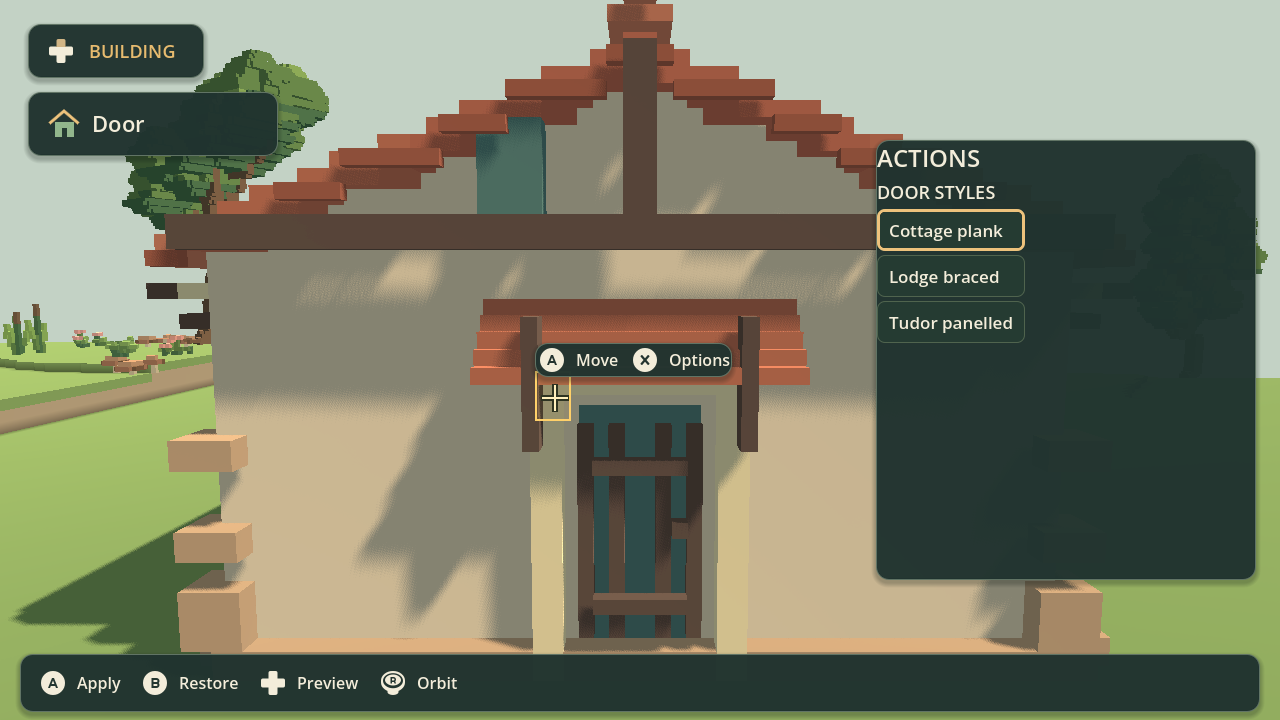
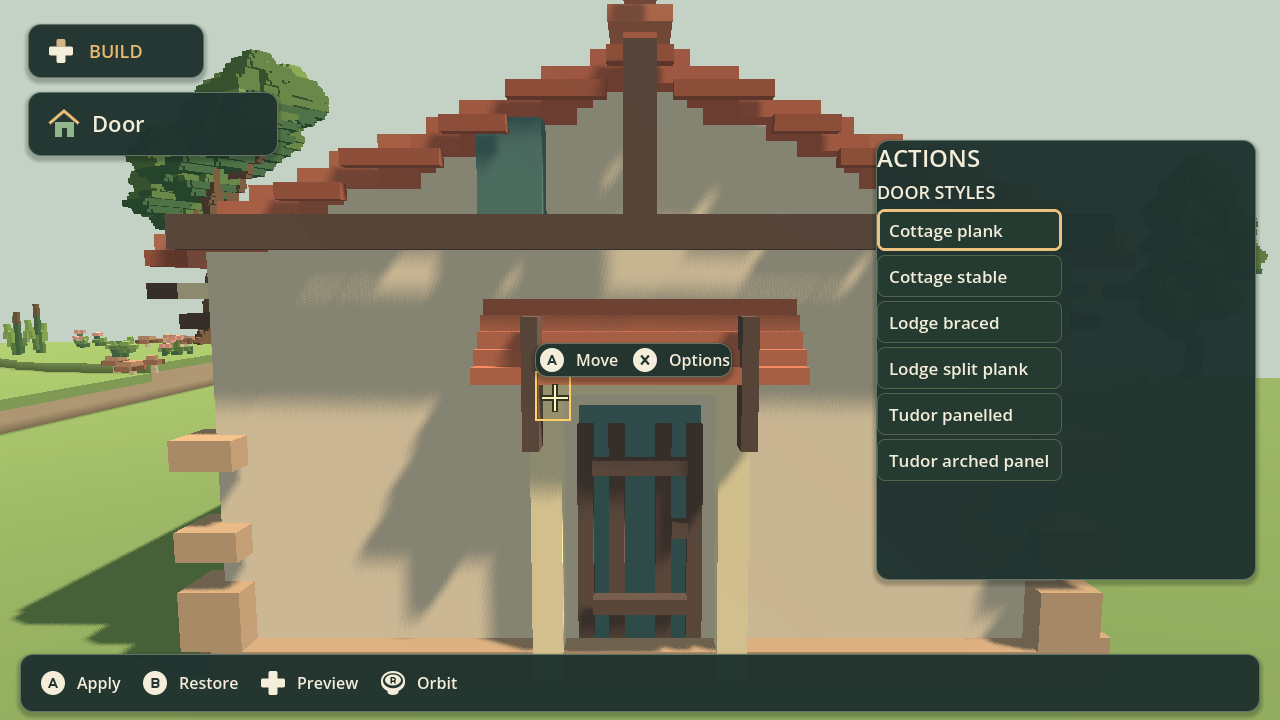
Add building decoration variants

diff --git a/tasks/M2-05-building-decoration-variants.md b/tasks/M2-05-building-decoration-variants.md
@@ -1,0 +1,34 @@
+# M2-05 — Building decoration variants
+
+**Status:** implemented and locally verified on `feat/m2-hamlet-building`; awaiting branch CI/package delivery and physical player review.
+
+## Scope
+
+- Give every player-placeable building decoration family an intentional geometry browser: windows, doors, shutters, and flower boxes.
+- Retain the existing styles and add cottage, lodge, and Tudor alternatives without reducing any home to palette swaps.
+- Expose the previously derived shutter and planter craft differences as explicit player choices.
+- Use the existing live-preview, dock-away, controller focus, colour, cancellation, undo/redo, resize, recovery, and save contracts.
+- Keep decorative geometry on cubic `0.0625` presentation cells while structural openings, anchors, collision, and authoritative sizes remain on `0.125`.
+
+## Acceptance
+
+- Every placeable detail kind has at least three selectable geometric variations.
+- Browsing changes the visible selected mesh immediately; B restores the exact original and A records one authoritative edit.
+- Choice labels and categories are readable at 1280×720 and work with controller and mouse.
+- Variant IDs survive resize, recovery, duplication, save/reload, undo, and redo.
+- Actual Mobile captures visibly distinguish representative options from all four families without the picker covering its target.
+
+## Delivered set
+
+- Windows: 7 options across cottage, lodge, and Tudor joinery.
+- Doors: 6 options across cottage, lodge, and Tudor joinery.
+- Shutters: legacy hand-built mix plus boarded, louvered, and diagonal-braced crafts.
+- Flower boxes: legacy garden mix plus timber, bracketed, and woven crafts.
+
+## Evidence
+
+- `tests/cottage_detail_visual_test.gd`: 264 checks, including explicit craft IDs, distinct geometry, and the `0.0625` detail grid.
+- `tests/m1_cottage_edit_ux_test.gd`: picker availability, read-only preview, commit, undo/redo, and exact save/reload identity.
+- `tests/m2_decoration_variants_render_test.gd`: 11 checks on D3D12 Forward Mobile at 1280×720.
+- `reports/screenshots/m2-home-details/decoration-variants.png`: actual Mobile gameplay capture.
+- `tools/test-m1-placement.ps1` and `tools/check.ps1`: exit 0.

diff --git a/reports/M2-05-building-decoration-variants.md b/reports/M2-05-building-decoration-variants.md
@@ -1,0 +1,29 @@
+# M2-05 — Building decoration variants
+
+Implemented on `feat/m2-hamlet-building` on 2026-09-09.
+
+## Player-facing result
+
+Every editable building-detail family now has a categorized Variation browser:
+
+- seven window choices: classic and round cottage windows, a new cottage diamond, two lodge patterns, and two Tudor leaded patterns;
+- six door choices: plank and stable cottage doors, two lodge braces, and two Tudor panels;
+- four shutter choices: the saved legacy mix plus boarded, louvered, and diagonal-braced crafts;
+- four flower-box choices: the saved legacy mix plus timber, bracketed, and woven planters.
+
+The existing preview contract is retained. Browsing redraws the selected mesh immediately without changing the authoritative document; confirm records one edit, cancel restores the original, and the panel remains docked away from its target. The late playtest UI layer now exposes Variation for shutters and flower boxes as well as windows and doors.
+
+Existing asset IDs are preserved, so old saves retain their prior deterministic craft. New explicit IDs select stable geometry. All detail geometry remains adaptive to the house surface and authored size, with decorative pieces quantized to the established `0.0625` tier.
+
+## Verification
+
+- Pinned Godot 4.7.2 import: pass.
+- `tests/cottage_detail_visual_test.gd`: 264 checks, 0 failures.
+- `tests/m1_cottage_edit_ux_test.gd`: pass, including read-only preview, one-revision commit, undo/redo, and exact save/reload IDs for shutters and planters.
+- `tools/test-m1-placement.ps1`: pass.
+- `tools/check.ps1`: pass.
+- Actual D3D12 Forward Mobile run on NVIDIA GeForce RTX 3070 at 1280×720: `tests/m2_decoration_variants_render_test.gd`, 11 checks, 0 failures.
+
+![Decoration variant gameplay capture](screenshots/m2-home-details/decoration-variants.png)
+
+Physical Thor feel/performance and player visual approval remain separate from desktop Mobile verification.

diff --git a/HANDOFF.md b/HANDOFF.md
@@ -6,6 +6,8 @@ M2-03 expands that catalogue into distinct cottage/lodge/Tudor window and door f
 
 M2-04 promotes placement into a global Build Catalogue opened by D-pad Up (Tab on PC), without selecting an existing home or changing edit context first. Its category hub routes Buildings to the residential catalogue and Outdoor Decorations to the existing foliage/tree/clear brushes; Roads & Paths is visibly reserved for the next composition slice and does not pretend placement exists. See `reports/M2-04-global-build-catalogue.md`.
 
+M2-05 expands every editable building-decoration family before road work: windows now have 7 choices, doors 6, shutters 4, and flower boxes 4. Shutters and planters now expose the same dock-away live Variation browser as structural openings; legacy asset IDs keep their prior deterministic appearance, while new IDs select stable adaptive geometry on the 0.0625 detail tier. Preview/cancel, one-edit commit, undo/redo, and exact save/reload identity are covered. The 1280×720 D3D12 Forward Mobile capture passed 11 checks. See `tasks/M2-05-building-decoration-variants.md`, `reports/M2-05-building-decoration-variants.md`, and `reports/screenshots/m2-home-details/decoration-variants.png`. Physical Thor/player approval remains open.
+
 Every branch push now exports both the isolated ARM64 APK and the Windows x86-64 playtest ZIP. CI launches the Windows export headlessly, verifies the exact ZIP contents/PE architecture/PCK/instructions, versions both packages by commit, and uploads them as separate GitHub artifacts. Only after the full gameplay/render/package gates pass does the existing private Apps Script bridge copy both artifacts and their verification receipts to Google Drive. See `reports/M2-PC-Drive-delivery.md`.
 
 ## Current visual-finish branch
